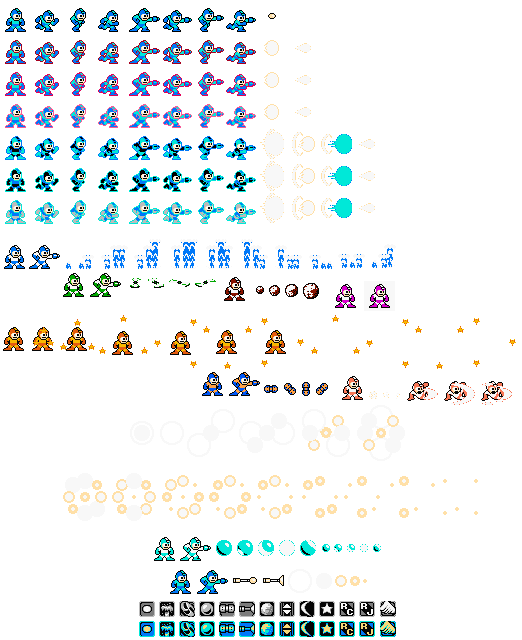
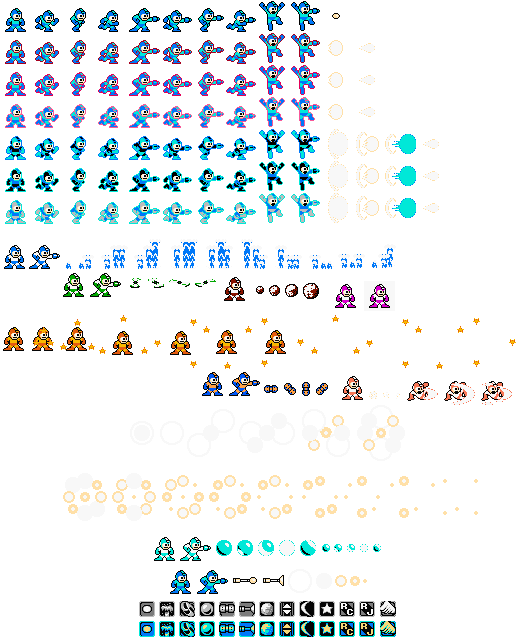
Added proper jump animation, cleaned up a lot of code to function much better with new input, changed a lot of static values to better fit the real game, added mouse input for attacking as another option.
NOTE: There is an issue with at least my keyboard, likely others, with the n-key input of using left and up arrow keys whilst trying to shoot using space. This is remedied with the addition of the mouse and also using WASD keys works fine here too, but something to bring up that I ran into this issue pretty early on, but there's not a whole lot to do without making hardcoded exceptions everywhere.

Changed region(s): [[0.4904, 0.0, 0.7969, 0.3438]]

diff --git a/assets/scripts/classes/mega-man.js b/assets/scripts/classes/mega-man.js
@@ -18,12 +18,15 @@ export default class MegaMan {
     static walkingSpeed = 500;
 
     // Jump related variables
+    jumpButtonReleased = false;
     jumping = false;
     jumpTime = 0; // Time (ms) since jump button was first held down
+    grounded = false;
+    canJump = false;
 
-    static jumpingSpeed = 600;
-    static jumpTimeLimit = 500;
-    static jumpTimeScalar = 2.5;
+    static jumpingSpeed = 650;
+    static jumpTimeLimit = 300;
+    static gravity = 900;
 
     // Charged state related variables
     chargeInterval = 0;
@@ -31,8 +34,9 @@ export default class MegaMan {
     charging = false;
     chargeState = 0;
 
+    static minChargeValue = 250;
     static lowChargeValue = 500;
-    static maxChargeValue = 1500;
+    static maxChargeValue = 1000;
     static chargeAnimationIntervalRate = 20 / 1000; // Time (ms) to transition to next charge frame
     static chargeRate = 2250; // Rate x deltaTime = how much charge to give per frame
 
@@ -87,6 +91,13 @@ export default class MegaMan {
         this.direction = leftPressed ? -1 : 1;
         this.element.style.setProperty('--direction', this.direction);
 
+        // Don't enable walking animation while jumping or falling
+        if (this.grounded) {
+            // Increments walking state to next frame
+            if (++this.walkingState >= 30) this.walkingState = 0;
+            this.element.style.setProperty('--walking-state', Math.floor(this.walkingState / 10) + 1);
+        }
+
         // Calculate velocity and new x coordinate after walking one frame
         const velocity = MegaMan.walkingSpeed * this.direction * Time.deltaTime;
         const newX = this.getCoords().x + velocity;
@@ -96,17 +107,12 @@ export default class MegaMan {
 
         // Don't start walking if already at end of screen
         if (newX >= MegaMan.outerBounds || newX <= MegaMan.innerBounds) {
-            this.stopWalking();
             return;
         }
 
         // Update position variable to translateX in CSS
         this.coords.x += velocity;
         this.element.style.setProperty('--positionX', `${this.coords.x}px`);
-
-        // Increments walking state to next frame
-        if (++this.walkingState >= 30) this.walkingState = 0;
-        this.element.style.setProperty('--walking-state', Math.floor(this.walkingState / 10) + 1);
     }
 
     /**
@@ -114,6 +120,13 @@ export default class MegaMan {
      */
     stopWalking() {
         this.walking = false;
+        this.disableWalkingAnimation();
+    }
+
+    /**
+     * Disables the walking animation and state variable
+     */
+    disableWalkingAnimation() {
         this.walkingState = 0;
         this.element.style.setProperty('--walking-state', 0);
     }
@@ -126,54 +139,72 @@ export default class MegaMan {
      */
     jump() {
         if (!activeKeys.w) {
-            if (this.jumping) this.stopJumping();
+            if (this.jumping) {
+                this.jumping = false;
+            }
+
+            this.jumpButtonReleased = true;
             return;
         }
 
-        // Enable jumping
-        this.jumping = true;
+        // First frame of jumping
+        if (!this.jumping && this.jumpButtonReleased && this.grounded) {
+            this.disableWalkingAnimation();
+            this.disableAttackAnimation();
 
-        // Calculate velocity and new y coordinate after walking one frame
+            // Enable jumping animation and start jump
+            this.jumping = true;
+            this.grounded = false;
+            this.jumpButtonReleased = false;
+            this.element.style.setProperty('--jumping-state', 1);
+        }
+
+        // Don't continue jumping if not jumping
+        if (!this.jumping) return;
+
+        // Calculate velocity for one frame
         const velocity = MegaMan.jumpingSpeed * Time.deltaTime;
         const newY = this.getCoords().y + velocity;
 
         // Stop jumping if already at top of screen or jump past jumpTimeLimit
-        if (newY <= MegaMan.upperBounds || this.jumpTime >= MegaMan.jumpTimeLimit) {
-            this.stopJumping();
+        if (newY < MegaMan.upperBounds || this.jumpTime >= MegaMan.jumpTimeLimit) {
+            this.jumping = false;
             return;
         }
 
-        this.jumpTime += velocity * MegaMan.jumpTimeScalar;
+        // Increment time to stop jumping too far
+        this.jumpTime += velocity;
 
         // Update position variable to translateX in CSS
         this.coords.y -= velocity;
         this.element.style.setProperty('--positionY', `${this.coords.y}px`);
-    }
 
-    /**
-     * Resets all jumping conditions and states, except for being on ground
-     */
-    stopJumping() {
-        this.jumping = false;
+        // In air = no longer grounded
+        this.grounded = false;
     }
 
     /**
      * Move downward until ground is reached
      */
     applyGravity() {
-        if (this.jumping) {
-            return;
-        }
+        // Only apply gravity when jumping is over and not on ground
+        if (this.jumping || this.grounded) return;
 
         // Check on ground; allow jump and stop gravity
         // TODO: Needs changed to work with HTML Div elements instead of sea level
         if (this.coords.y >= 0) {
+            this.jumping = false;
+            this.grounded = true;
             this.jumpTime = 0;
+            this.jumpButtonReleased = false;
+            this.element.style.setProperty('--jumping-state', 0);
+
+            this.disableAttackAnimation();
             return;
         }
 
         // Calculate velocity and new y coordinate after walking one frame
-        const velocity = MegaMan.jumpingSpeed * Time.deltaTime;
+        const velocity = MegaMan.gravity * Time.deltaTime;
         const newY = this.getCoords().y + velocity;
 
         // Set correct height based on height of element landing on
@@ -181,6 +212,7 @@ export default class MegaMan {
         if (newY < 0) {
             this.coords.y = 0;
             this.element.style.setProperty('--positionY', `${0}px`);
+            this.grounded = true;
             return;
         }
 
@@ -209,6 +241,9 @@ export default class MegaMan {
             if (this.charging) this.attack();
             return;
         }
+
+        // Always do initial attack with no charge
+        if (!this.charging) this.attack(true);
 
         // Enable charging
         this.charging = true;
@@ -250,15 +285,23 @@ export default class MegaMan {
     /**
      * Sets the attacking style for Mega Man and shoot a bullet
      */
-    attack() {
+    attack(force = false) {
         // Stop charging
-        this.charging = false;
+        this.charging = force;
 
-        // Shifts walking state over 4 to display accurate sprite for attacking
-        this.element.style.setProperty('--attacking-state', 4);
+        // Allow shot before charge, but don't shoot two in succession unless charge past minimum
+        if (this.charge < MegaMan.minChargeValue && !force) return;
+
+        if (this.grounded) {
+            // Shifts walking state over 4 to display accurate sprite for attacking
+            this.element.style.setProperty('--attacking-state', 4);
+        } else {
+            // Shifts jumping state over 1 to display accurate sprite for attacking
+            this.element.style.setProperty('--attacking-state', 1);
+        }
 
         // Spawn bullet
-        const bullet = new Bullet(this.charge, this.direction, this.element.getBoundingClientRect());
+        new Bullet(this.charge, this.direction, this.element.getBoundingClientRect());
 
         // Immediately reset charge to disallow multiple charged shots
         this.charge = 0;
@@ -268,11 +311,17 @@ export default class MegaMan {
     }
 
     /**
+     * Disables the attack animation
+     */
+    disableAttackAnimation() {
+        this.element.style.setProperty('--attacking-state', 0);
+    }
+
+    /**
      * Reset Mega Man to idle animation
      */
     resetToIdleAnimation() {
-        // Resets attacking state
-        this.element.style.setProperty('--attacking-state', 0);
+        this.disableAttackAnimation();
 
         // Resets charging state
         this.chargeState = 0;

diff --git a/assets/styles/bullet.css b/assets/styles/bullet.css
@@ -5,7 +5,7 @@
     width: 32px;
     height: 32px;
     background-image: url('../images/megaman-animations.png');
-    background-position: -256px 0;
+    background-position: -320px 0;
     background-repeat: no-repeat;
     position: absolute;
     transform: translateX(var(--position)) scale(calc(var(--direction) * 4), 4);
@@ -19,15 +19,15 @@
 
 @keyframes lowChargeBullet {
     0% {
-        background-position: -256px -32px;
+        background-position: -320px -32px;
     }
 
     50% {
-        background-position: -288px -32px;
+        background-position: -352px -32px;
     }
 
     100% {
-        background-position: -288px -32px;
+        background-position: -352px -32px;
         /* Dummy frame to complete the cycle */
     }
 }
@@ -39,23 +39,23 @@
 
 @keyframes maxChargeBullet {
     0% {
-        background-position: -256px -128px;
-    }
-
-    25% {
-        background-position: -288px -128px;
-    }
-
-    50% {
         background-position: -320px -128px;
     }
 
-    75% {
+    25% {
         background-position: -352px -128px;
     }
 
+    50% {
+        background-position: -384px -128px;
+    }
+
+    75% {
+        background-position: -416px -128px;
+    }
+
     100% {
-        background-position: -352px -128px;
+        background-position: -416px -128px;
         /* Dummy frame to complete the cycle */
     }
 }

diff --git a/assets/styles/mega-man.css b/assets/styles/mega-man.css
@@ -2,9 +2,15 @@
     --positionX: 0px;
     --positionY: 0px;
     --direction: 1;
-    --walking-state: 0; /* 0 (idle), 1 - 3 (walking) */
-    --charging-state: 0; /* 0 (none), 1 - 3 (low), 4 - 6 (max) */
-    --attacking-state: 0; /* 0 (none), 1 (idle), 2 - 4 (walking) | 2 - 4 not applicable with charging */
+
+    /* 0 (idle), 1 - 3 (walking) */
+    --walking-state: 0;
+    /* 0 (idle), 1 (jumping) */
+    --jumping-state: 0;
+    /* 0 (none), 1 - 3 (low), 4 - 6 (max) */
+    --charging-state: 0;
+    /* 0 (none), 1 (idle), 2 - 4 (walking) */
+    --attacking-state: 0;
 
     width: 32px;
     height: 32px;
@@ -24,6 +30,6 @@
 
 @keyframes animationState {
     0% {
-        background-position: calc((var(--walking-state) + var(--attacking-state)) * -32px) calc(var(--charging-state) * -32px);
+        background-position: calc((var(--walking-state) + (var(--jumping-state) * 8) + var(--attacking-state)) * -32px) calc(var(--charging-state) * -32px);
     }
 }

diff --git a/assets/scripts/utils/event-handler.js b/assets/scripts/utils/event-handler.js
@@ -45,3 +45,11 @@ document.addEventListener('keyup', (event) => {
             break;
     }
 });
+
+document.addEventListener('mousedown', (event) => {
+    activeKeys.space = true;
+});
+
+document.addEventListener('mouseup', (event) => {
+    activeKeys.space = false;
+});

diff --git a/assets/scripts/classes/bullet.js b/assets/scripts/classes/bullet.js
@@ -10,7 +10,7 @@ export default class Bullet {
     static list = [];
     static maxBullets = 3;
     static lastBulletTime = 0;
-    static shootDelay = 330;
+    static shootDelay = 100;
 
     static movingSpeed = 10;
 
